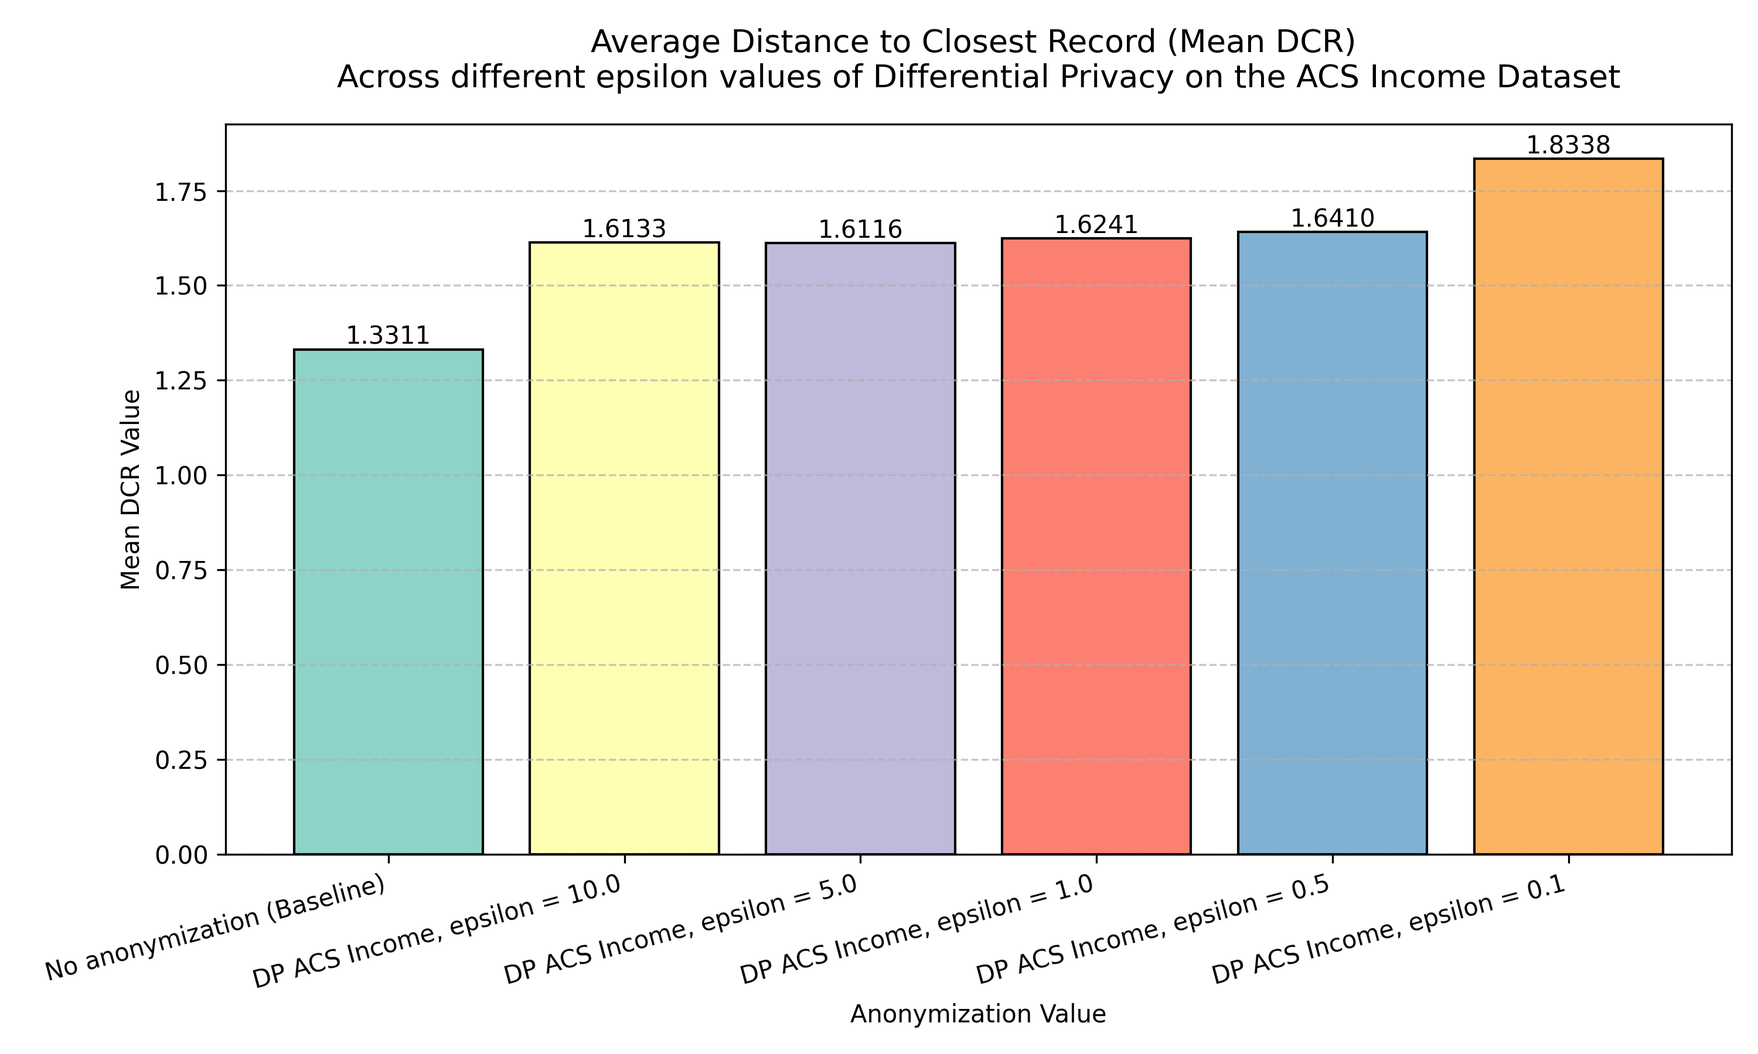
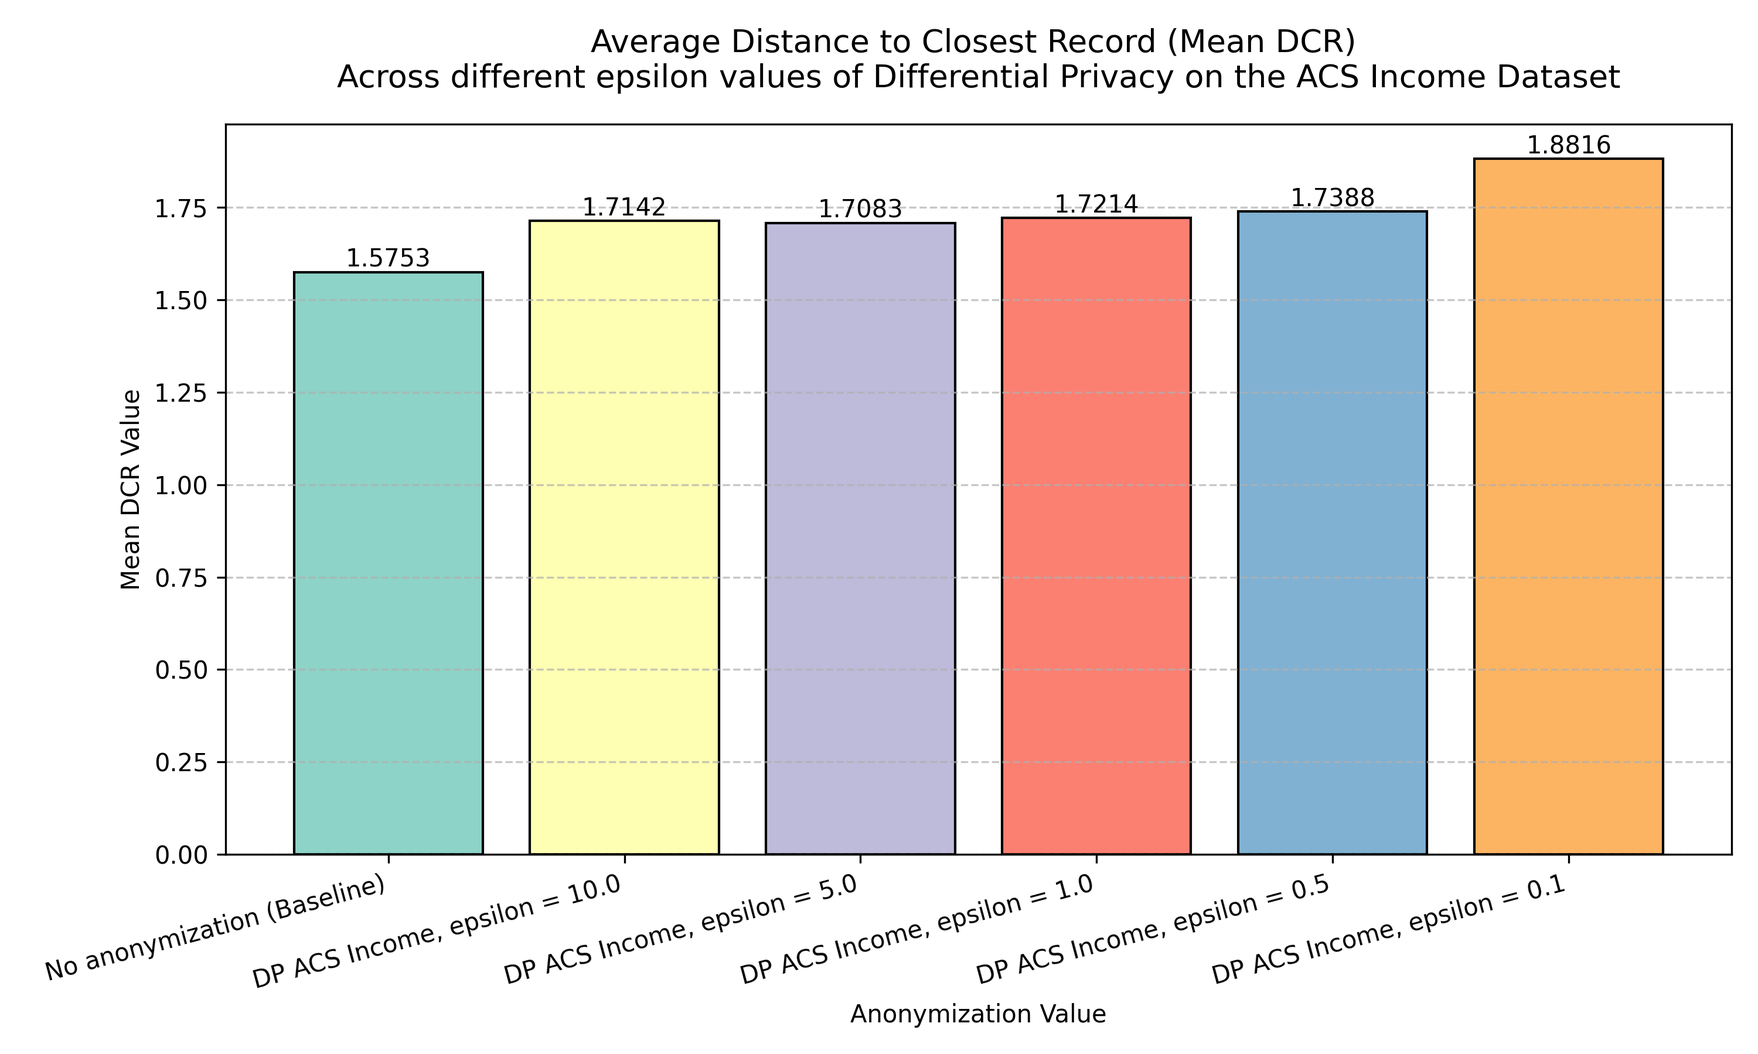
Added DCR, and results

diff --git a/project/ACS Public Coverage/risk_assessment/DCR.py b/project/ACS Public Coverage/risk_assessment/DCR.py
@@ -45,7 +45,7 @@ def dcr(df_orig_raw, df_anon_raw, numeric_cols):
 
     # 4. Use kNN to efficiently find the shortest distance (DCR)
     # DCR uses euclidan distance
-    knn = NearestNeighbors(n_neighbors=1, algorithm='auto', metric='euclidean')
+    knn = NearestNeighbors(n_neighbors=1, algorithm='auto', metric='euclidean', n_jobs=-1)
     knn.fit(X_orig)
     
     # distances will be an array with the shortest distance for each evaluated row
@@ -73,14 +73,14 @@ def plot_results(results_dict):
     plt.xlabel('Anonymization Value', fontsize=10)
 
     # plt.title('Average Distance to Closest Record (Mean DCR) \nAcross different epsilon values of Differential Privacy on the ACS Public Coverage Dataset', fontsize=13, pad=15)
-    plt.title('Average Distance to Closest Record (Mean DCR) \nAcross different k-values of k-Anonymity on the ACS Public Coverage Dataset', fontsize=10)
-    # plt.title('Average Distance to Closest Record (Mean DCR) \nAcross different k-, l- and t-values of k-Anonymity, l-Diversity and t-Closeness on the ACS Public Coverage Dataset', fontsize=10)
+    # plt.title('Average Distance to Closest Record (Mean DCR) \nAcross different k-values of k-Anonymity on the ACS Public Coverage Dataset', fontsize=10)
+    plt.title('Average Distance to Closest Record (Mean DCR) \nAcross different k-, l- and t-values of k-Anonymity, l-Diversity and t-Closeness on the ACS Public Coverage Dataset', fontsize=10)
     plt.grid(axis='y', linestyle='--', alpha=0.7, zorder=0)
     # plt.ylim(0, 1)
     plt.tight_layout()
     # plt.savefig("../plots/dcr_mean_distance_acs_public_coverage_DP.png", dpi=300)
-    plt.savefig("../plots/dcr_mean_distance_acs_public_coverage_ARX_k_only.png", dpi=300)
-    # plt.savefig("../plots/dcr_mean_distance_acs_public_coverage_ARX_k_l_t.png", dpi=300)
+    # plt.savefig("../plots/dcr_mean_distance_acs_public_coverage_ARX_k_only.png", dpi=300)
+    plt.savefig("../plots/dcr_mean_distance_acs_public_coverage_ARX_k_l_t.png", dpi=300)
     plt.show()
 
 df_real = pd.read_csv('../datasets/folktables_public_coverage_RAW.csv')
@@ -90,18 +90,18 @@ df_train_real, df_test_real = train_test_split(df_real, test_size=0.3, random_st
 datasets_to_test = {
     "No anonymization (Baseline)": df_test_real,  # signals: use X_train_real directly
     # "ARX ACS Public Coverage, k = 10": pd.read_csv('../datasets/ARX_public_coverage_k=10.csv'),
-    # "ARX ACS Public Coverage, k = 10, l = 2": pd.read_csv('../datasets/ARX_public_coverage_k=10_l=2.csv'),
-    # "ARX ACS Public Coverage, k = 10, l = 3": pd.read_csv('../datasets/ARX_public_coverage_k=10_l=3.csv'),
-    # "ARX ACS Public Coverage, k = 10, t = 0.7": pd.read_csv('../datasets/ARX_public_coverage_k=10_t=0.7.csv'),
-    # "ARX ACS Public Coverage, k = 10, t = 0.6": pd.read_csv('../datasets/ARX_public_coverage_k=10_t=0.6.csv'),
     "ARX ACS Public Coverage k = 10": pd.read_csv('../datasets/ARX_public_coverage_k=10.csv'),
     "ARX ACS Public Coverage k = 20": pd.read_csv('../datasets/ARX_public_coverage_k=20.csv'),
     "ARX ACS Public Coverage k = 50": pd.read_csv('../datasets/ARX_public_coverage_k=50.csv'),
-    # "DP ACS Public Coverage, epsilon = 10.0": pd.read_csv('../datasets/public_coverage_dp_epsilon_10_0.csv'),
-    # "DP ACS Public Coverage, epsilon = 5.0":  pd.read_csv('../datasets/public_coverage_dp_epsilon_5_0.csv'),
-    # "DP ACS Public Coverage, epsilon = 1.0":  pd.read_csv('../datasets/public_coverage_dp_epsilon_1_0.csv'),
-    # "DP ACS Public Coverage, epsilon = 0.5":  pd.read_csv('../datasets/public_coverage_dp_epsilon_0_5.csv'),
-    # "DP ACS Public Coverage, epsilon = 0.1":  pd.read_csv('../datasets/public_coverage_dp_epsilon_0_1.csv'),
+    "ARX ACS Public Coverage, k = 10, l = 2": pd.read_csv('../datasets/ARX_public_coverage_k=10_l=2.csv'),
+    "ARX ACS Public Coverage, k = 10, l = 3": pd.read_csv('../datasets/ARX_public_coverage_k=10_l=3.csv'),
+    "ARX ACS Public Coverage, k = 10, t = 0.7": pd.read_csv('../datasets/ARX_public_coverage_k=10_t=0.7.csv'),
+    "ARX ACS Public Coverage, k = 10, t = 0.6": pd.read_csv('../datasets/ARX_public_coverage_k=10_t=0.6.csv'),
+    "DP ACS Public Coverage, epsilon = 10.0": pd.read_csv('../datasets/public_coverage_dp_epsilon_10_0.csv'),
+    "DP ACS Public Coverage, epsilon = 5.0":  pd.read_csv('../datasets/public_coverage_dp_epsilon_5_0.csv'),
+    "DP ACS Public Coverage, epsilon = 1.0":  pd.read_csv('../datasets/public_coverage_dp_epsilon_1_0.csv'),
+    "DP ACS Public Coverage, epsilon = 0.5":  pd.read_csv('../datasets/public_coverage_dp_epsilon_0_5.csv'),
+    "DP ACS Public Coverage, epsilon = 0.1":  pd.read_csv('../datasets/public_coverage_dp_epsilon_0_1.csv'),
 }
 
 results = {}
@@ -114,4 +114,14 @@ for name, df in datasets_to_test.items():
     print(f"Exact Matches (%): {results[name]['exact_matches_%']:.2f}%")
     print(f"Near Matches <1% DCR (%): {results[name]['near_matches_1pct_%']:.2f}%")
 
-plot_results({k: v['mean_distance'] for k, v in results.items()})
+df_results = pd.DataFrame.from_dict(results, orient='index')
+
+# 2. Döp om index-kolumnen så det ser snyggt ut i CSV:n
+df_results.index.name = 'Anonymization_Configuration'
+
+# 3. Definiera var du vill spara filen (skapa en mapp som heter "results" om du inte har det)
+csv_filepath = "../plots/dcr_results_acs_public_coverage.csv" 
+
+# 4. Spara till CSV
+df_results.to_csv(csv_filepath)
+# plot_results({k: v['mean_distance'] for k, v in results.items()})

diff --git a/project/ACS Income/risk_assessment/DCR.py b/project/ACS Income/risk_assessment/DCR.py
@@ -49,7 +49,7 @@ def dcr(df_orig_raw, df_anon_raw, numeric_cols):
 
     # 4. Use kNN to efficiently find the shortest distance (DCR)
     # DCR uses euclidan distance
-    knn = NearestNeighbors(n_neighbors=1, algorithm='auto', metric='euclidean')
+    knn = NearestNeighbors(n_neighbors=1, algorithm='auto', metric='euclidean', n_jobs=-1)
     knn.fit(X_orig)
     
     # distances will be an array with the shortest distance for each evaluated row
@@ -77,7 +77,7 @@ def plot_results(results_dict):
     plt.xlabel('Anonymization Value', fontsize=10)
 
     # plt.title('Average Distance to Closest Record (Mean DCR) \nAcross different epsilon values of Differential Privacy on the ACS Income Dataset', fontsize=13, pad=15)
-    plt.title('Average Distance to Closest Record (Mean DCR) \nAcross different k-values of k-Anonymity on the ACS Income Dataset', fontsize=10)
+    plt.title('Average Distance to Closest Record (Mean DCR) \nAcross different k-valuses of k-Anonymity on the ACS Income Dataset', fontsize=10)
     # plt.title('Average Distance to Closest Record (Mean DCR) \nAcross different k-, l- and t-values of k-Anonymity, l-Diversity and t-Closeness on the ACS Income Dataset', fontsize=10)
     plt.grid(axis='y', linestyle='--', alpha=0.7, zorder=0)
     # plt.ylim(0, 1)
@@ -93,19 +93,19 @@ df_train_real, df_test_real = train_test_split(df_real, test_size=0.3, random_st
 
 datasets_to_test = {
     "No anonymization (Baseline)": df_test_real,  # signals: use X_train_real directly
-    # "ARX ACS Income k = 10": pd.read_csv('../datasets/ARX_income_k=10_l=2.csv'),
-    # "ARX ACS Income k = 10, l = 2": pd.read_csv('../datasets/ARX_income_k=10_l=2.csv'),
-    # "ARX ACS Income k = 10, t = 0.2": pd.read_csv('../datasets/ARX_income_k=10_t=0.2.csv'),
-    # "ARX ACS Income k = 10, t = 0.10": pd.read_csv('../datasets/ARX_income_k=10_t=0.1.csv'),
-    # "ARX ACS Income k = 10, t = 0.05": pd.read_csv('../datasets/ARX_income_k=10_t=0.05.csv'),
     "ARX ACS Income k = 10": pd.read_csv('../datasets/ARX_income_k=10.csv'),
     "ARX ACS Income k = 20": pd.read_csv('../datasets/ARX_income_k=20.csv'),
     "ARX ACS Income k = 50": pd.read_csv('../datasets/ARX_income_k=50.csv'),
-    # "DP ACS Income, epsilon = 10.0": pd.read_csv('../datasets/income_dp_epsilon_10_0.csv'),
-    # "DP ACS Income, epsilon = 5.0":  pd.read_csv('../datasets/income_dp_epsilon_5_0.csv'),
-    # "DP ACS Income, epsilon = 1.0":  pd.read_csv('../datasets/income_dp_epsilon_1_0.csv'),
-    # "DP ACS Income, epsilon = 0.5":  pd.read_csv('../datasets/income_dp_epsilon_0_5.csv'),
-    # "DP ACS Income, epsilon = 0.1":  pd.read_csv('../datasets/income_dp_epsilon_0_1.csv'),
+    # "ARX ACS Income k = 10": pd.read_csv('../datasets/ARX_income_k=10.csv'),
+    "ARX ACS Income k = 10, l = 2": pd.read_csv('../datasets/ARX_income_k=10_l=2.csv'),
+    "ARX ACS Income k = 10, t = 0.2": pd.read_csv('../datasets/ARX_income_k=10_t=0.2.csv'),
+    "ARX ACS Income k = 10, t = 0.10": pd.read_csv('../datasets/ARX_income_k=10_t=0.1.csv'),
+    "ARX ACS Income k = 10, t = 0.05": pd.read_csv('../datasets/ARX_income_k=10_t=0.05.csv'),
+    "DP ACS Income, epsilon = 10.0": pd.read_csv('../datasets/income_dp_epsilon_10_0.csv'),
+    "DP ACS Income, epsilon = 5.0":  pd.read_csv('../datasets/income_dp_epsilon_5_0.csv'),
+    "DP ACS Income, epsilon = 1.0":  pd.read_csv('../datasets/income_dp_epsilon_1_0.csv'),
+    "DP ACS Income, epsilon = 0.5":  pd.read_csv('../datasets/income_dp_epsilon_0_5.csv'),
+    "DP ACS Income, epsilon = 0.1":  pd.read_csv('../datasets/income_dp_epsilon_0_1.csv'),
 }
 
 results = {}
@@ -117,5 +117,14 @@ for name, df in datasets_to_test.items():
     print(f"Median DCR: {results[name]['median_distance']:.4f}")
     print(f"Exact Matches (%): {results[name]['exact_matches_%']:.2f}%")
     print(f"Near Matches <1% DCR (%): {results[name]['near_matches_1pct_%']:.2f}%")
+df_results = pd.DataFrame.from_dict(results, orient='index')
 
-plot_results({k: v['mean_distance'] for k, v in results.items()})
+# 2. Döp om index-kolumnen så det ser snyggt ut i CSV:n
+df_results.index.name = 'Anonymization_Configuration'
+
+# 3. Definiera var du vill spara filen (skapa en mapp som heter "results" om du inte har det)
+csv_filepath = "../plots/dcr_results_acs_income.csv" 
+
+# 4. Spara till CSV
+df_results.to_csv(csv_filepath)
+# plot_results({k: v['mean_distance'] for k, v in results.items()})

diff --git a/project/Credit Card Clients/risk_assessment/DCR.py b/project/Credit Card Clients/risk_assessment/DCR.py
@@ -91,18 +91,18 @@ df_train_real, df_test_real = train_test_split(df_real, test_size=0.3, random_st
 datasets_to_test = {
     "No anonymization (Baseline)": df_test_real,  # signals: use X_train_real directly
     # "ARX Credit Card Clients, k = 5": pd.read_csv('../datasets/ARX_credit_card_clients_k=5.csv'),
-    # "ARX Credit Card Clients, k = 5, l = 2": pd.read_csv('../datasets/ARX_credit_card_clients_k=5_l=2.csv'),
-    # "ARX Credit Card Clients, k = 5, l = 3": pd.read_csv('../datasets/ARX_credit_card_clients_k=5_l=3.csv'),
-    # "ARX Credit Card Clients, k = 5, t = 0.20": pd.read_csv('../datasets/ARX_credit_card_clients_k=5_t=0.2.csv'),
-    # "ARX Credit Card Clients, k = 5, t = 0.10": pd.read_csv('../datasets/ARX_credit_card_clients_k=5_t=0.1.csv'),
-    "ARX Credit Card Clients k = 5": pd.read_csv('../datasets/ARX_credit_card_clients_k=5.csv'),
     "ARX Credit Card Clients k = 10": pd.read_csv('../datasets/ARX_credit_card_clients_k=10.csv'),
     "ARX Credit Card Clients k = 20": pd.read_csv('../datasets/ARX_credit_card_clients_k=20.csv'),
-    # "DP Credit Card Clients, epsilon = 10.0": pd.read_csv('../datasets/credit_card_clients_dp_epsilon_10_0.csv'),
-    # "DP Credit Card Clients, epsilon = 5.0":  pd.read_csv('../datasets/credit_card_clients_dp_epsilon_5_0.csv'),
-    # "DP Credit Card Clients, epsilon = 3.0":  pd.read_csv('../datasets/credit_card_clients_dp_epsilon_3_0.csv'),
-    # "DP Credit Card Clients, epsilon = 1.0":  pd.read_csv('../datasets/credit_card_clients_dp_epsilon_1_0.csv'),
-    # "DP Credit Card Clients, epsilon = 0.5":  pd.read_csv('../datasets/credit_card_clients_dp_epsilon_0_5.csv'),
+    "ARX Credit Card Clients, k = 5, l = 2": pd.read_csv('../datasets/ARX_credit_card_clients_k=5_l=2.csv'),
+    "ARX Credit Card Clients, k = 5, l = 3": pd.read_csv('../datasets/ARX_credit_card_clients_k=5_l=3.csv'),
+    "ARX Credit Card Clients, k = 5, t = 0.20": pd.read_csv('../datasets/ARX_credit_card_clients_k=5_t=0.2.csv'),
+    "ARX Credit Card Clients, k = 5, t = 0.10": pd.read_csv('../datasets/ARX_credit_card_clients_k=5_t=0.1.csv'),
+    # "ARX Credit Card Clients k = 5": pd.read_csv('../datasets/ARX_credit_card_clients_k=5.csv'),
+    "DP Credit Card Clients, epsilon = 10.0": pd.read_csv('../datasets/credit_card_clients_dp_epsilon_10_0.csv'),
+    "DP Credit Card Clients, epsilon = 5.0":  pd.read_csv('../datasets/credit_card_clients_dp_epsilon_5_0.csv'),
+    "DP Credit Card Clients, epsilon = 3.0":  pd.read_csv('../datasets/credit_card_clients_dp_epsilon_3_0.csv'),
+    "DP Credit Card Clients, epsilon = 1.0":  pd.read_csv('../datasets/credit_card_clients_dp_epsilon_1_0.csv'),
+    "DP Credit Card Clients, epsilon = 0.5":  pd.read_csv('../datasets/credit_card_clients_dp_epsilon_0_5.csv'),
 }
 
 results = {}
@@ -115,4 +115,14 @@ for name, df in datasets_to_test.items():
     print(f"Exact Matches (%): {results[name]['exact_matches_%']:.2f}%")
     print(f"Near Matches <1% DCR (%): {results[name]['near_matches_1pct_%']:.2f}%")
 
-plot_results({k: v['mean_distance'] for k, v in results.items()})
+df_results = pd.DataFrame.from_dict(results, orient='index')
+
+# 2. Döp om index-kolumnen så det ser snyggt ut i CSV:n
+df_results.index.name = 'Anonymization_Configuration'
+
+# 3. Definiera var du vill spara filen (skapa en mapp som heter "results" om du inte har det)
+csv_filepath = "../plots/dcr_results_credit_card_clients.csv" 
+
+# 4. Spara till CSV
+df_results.to_csv(csv_filepath)
+# plot_results({k: v['mean_distance'] for k, v in results.items()})

diff --git a/project/Bank Marketing/risk_assessment/DCR.py b/project/Bank Marketing/risk_assessment/DCR.py
@@ -89,19 +89,19 @@ df_train_real, df_test_real = train_test_split(df_real, test_size=0.3, random_st
 
 datasets_to_test = {
     "No anonymization (Baseline)": df_test_real,  # signals: use X_train_real directly
-    # "ARX Bank_marketing k = 5": pd.read_csv('../datasets/ARX_bank_marketing_k=5.csv', sep=';'),
-    # "ARX Bank_marketing k = 5, l = 2": pd.read_csv('../datasets/ARX_bank_marketing_k=5_l=2.csv', sep=';'),
-    # "ARX Bank_marketing k = 5, l = 3": pd.read_csv('../datasets/ARX_bank_marketing_k=5_l=3.csv', sep=';'),
-    # "ARX Bank_marketing k = 5, t = 0.2": pd.read_csv('../datasets/ARX_bank_marketing_k=5_t=0.2.csv', sep=';'),
-    # "ARX Bank_marketing k = 5, t = 0.1": pd.read_csv('../datasets/ARX_bank_marketing_k=5_t=0.1.csv', sep=';'),
     "ARX Bank_marketing k = 5": pd.read_csv('../datasets/ARX_bank_marketing_k=5.csv', sep=';'),
     "ARX Bank Marketing k = 10": pd.read_csv('../datasets/ARX_bank_marketing_k=10.csv', sep=';'),
     "ARX Bank Marketing k = 20": pd.read_csv('../datasets/ARX_bank_marketing_k=20.csv', sep=';'),
-    # "DP Bank Marketing, epsilon = 10.0": pd.read_csv('../datasets/bank_marketing_dp_epsilon_10_0.csv'),
-    # "DP Bank Marketing, epsilon = 5.0":  pd.read_csv('../datasets/bank_marketing_dp_epsilon_5_0.csv'),
-    # "DP Bank Marketing, epsilon = 1.0":  pd.read_csv('../datasets/bank_marketing_dp_epsilon_1_0.csv'),
-    # "DP Bank Marketing, epsilon = 0.5":  pd.read_csv('../datasets/bank_marketing_dp_epsilon_0_5.csv'),
-    # "DP Bank Marketing, epsilon = 0.1":  pd.read_csv('../datasets/bank_marketing_dp_epsilon_0_1.csv'),
+    "ARX Bank_marketing k = 5, l = 2": pd.read_csv('../datasets/ARX_bank_marketing_k=5_l=2.csv', sep=';'),
+    "ARX Bank_marketing k = 5, l = 3": pd.read_csv('../datasets/ARX_bank_marketing_k=5_l=3.csv', sep=';'),
+    "ARX Bank_marketing k = 5, t = 0.2": pd.read_csv('../datasets/ARX_bank_marketing_k=5_t=0.2.csv', sep=';'),
+    "ARX Bank_marketing k = 5, t = 0.1": pd.read_csv('../datasets/ARX_bank_marketing_k=5_t=0.1.csv', sep=';'),
+    # "ARX Bank_marketing k = 5": pd.read_csv('../datasets/ARX_bank_marketing_k=5.csv', sep=';'),
+    "DP Bank Marketing, epsilon = 10.0": pd.read_csv('../datasets/bank_marketing_dp_epsilon_10_0.csv'),
+    "DP Bank Marketing, epsilon = 5.0":  pd.read_csv('../datasets/bank_marketing_dp_epsilon_5_0.csv'),
+    "DP Bank Marketing, epsilon = 1.0":  pd.read_csv('../datasets/bank_marketing_dp_epsilon_1_0.csv'),
+    "DP Bank Marketing, epsilon = 0.5":  pd.read_csv('../datasets/bank_marketing_dp_epsilon_0_5.csv'),
+    "DP Bank Marketing, epsilon = 0.1":  pd.read_csv('../datasets/bank_marketing_dp_epsilon_0_1.csv'),
 }
 
 results = {}
@@ -114,4 +114,14 @@ for name, df in datasets_to_test.items():
     print(f"Exact Matches (%): {results[name]['exact_matches_%']:.2f}%")
     print(f"Near Matches <1% DCR (%): {results[name]['near_matches_1pct_%']:.2f}%")
 
-plot_results({k: v['mean_distance'] for k, v in results.items()})
+df_results = pd.DataFrame.from_dict(results, orient='index')
+
+# 2. Döp om index-kolumnen så det ser snyggt ut i CSV:n
+df_results.index.name = 'Anonymization_Configuration'
+
+# 3. Definiera var du vill spara filen (skapa en mapp som heter "results" om du inte har det)
+csv_filepath = "../plots/dcr_results_bank_marketing.csv" 
+
+# 4. Spara till CSV
+df_results.to_csv(csv_filepath)
+# plot_results({k: v['mean_distance'] for k, v in results.items()})

diff --git a/project/ACS Employement/risk_assessment/DCR.py b/project/ACS Employement/risk_assessment/DCR.py
@@ -94,18 +94,18 @@ df_train_real, df_test_real = train_test_split(df_real, test_size=0.3, random_st
 datasets_to_test = {
     "No anonymization (Baseline)": df_test_real,  # signals: use X_train_real directly
     "ARX ACS Employment k = 10": pd.read_csv('../datasets/ARX_employment_k=10.csv'),
+    "ARX ACS Employment k = 20": pd.read_csv('../datasets/ARX_employment_k=20.csv'),
+    "ARX ACS Employment k = 50": pd.read_csv('../datasets/ARX_employment_k=50.csv'),
     "ARX ACS Employment k = 10, l = 2": pd.read_csv('../datasets/ARX_employment_k=10_l=2.csv'),
     "ARX ACS Employment k = 10, t = 0.45": pd.read_csv('../datasets/ARX_employment_k=10_t=0.45.csv'),
     "ARX ACS Employment k = 10, t = 0.3": pd.read_csv('../datasets/ARX_employment_k=10_t=0.3.csv'),
     "ARX ACS Employment k = 10, t = 0.2": pd.read_csv('../datasets/ARX_employment_k=10_t=0.2.csv'),
     # "ARX ACS Employment k = 10": pd.read_csv('../datasets/ARX_employment_k=10.csv'),
-    # "ARX ACS Employment k = 20": pd.read_csv('../datasets/ARX_employment_k=20.csv'),
-    # "ARX ACS Employment k = 50": pd.read_csv('../datasets/ARX_employment_k=50.csv'),
-    # "DP ACS Employment, epsilon = 10.0": pd.read_csv('../datasets/employment_dp_epsilon_10_0.csv'),
-    # "DP ACS Employment, epsilon = 5.0":  pd.read_csv('../datasets/employment_dp_epsilon_5_0.csv'),
-    # "DP ACS Employment, epsilon = 1.0":  pd.read_csv('../datasets/employment_dp_epsilon_1_0.csv'),
-    # "DP ACS Employment, epsilon = 0.5":  pd.read_csv('../datasets/employment_dp_epsilon_0_5.csv'),
-    # "DP ACS Employment, epsilon = 0.1":  pd.read_csv('../datasets/employment_dp_epsilon_0_1.csv'),
+    "DP ACS Employment, epsilon = 10.0": pd.read_csv('../datasets/employment_dp_epsilon_10_0.csv'),
+    "DP ACS Employment, epsilon = 5.0":  pd.read_csv('../datasets/employment_dp_epsilon_5_0.csv'),
+    "DP ACS Employment, epsilon = 1.0":  pd.read_csv('../datasets/employment_dp_epsilon_1_0.csv'),
+    "DP ACS Employment, epsilon = 0.5":  pd.read_csv('../datasets/employment_dp_epsilon_0_5.csv'),
+    "DP ACS Employment, epsilon = 0.1":  pd.read_csv('../datasets/employment_dp_epsilon_0_1.csv'),
 }
 
 results = {}
@@ -117,5 +117,14 @@ for name, df in datasets_to_test.items():
     print(f"Median DCR: {results[name]['median_distance']:.4f}")
     print(f"Exact Matches (%): {results[name]['exact_matches_%']:.2f}%")
     print(f"Near Matches <1% DCR (%): {results[name]['near_matches_1pct_%']:.2f}%")
+df_results = pd.DataFrame.from_dict(results, orient='index')
 
-plot_results({k: v['mean_distance'] for k, v in results.items()})
+# 2. Döp om index-kolumnen så det ser snyggt ut i CSV:n
+df_results.index.name = 'Anonymization_Configuration'
+
+# 3. Definiera var du vill spara filen (skapa en mapp som heter "results" om du inte har det)
+csv_filepath = "../plots/dcr_results_acs_employment.csv" 
+
+# 4. Spara till CSV
+df_results.to_csv(csv_filepath)
+# plot_results({k: v['mean_distance'] for k, v in results.items()})

diff --git a/project/MEPS/risk_assessment/DCR.py b/project/MEPS/risk_assessment/DCR.py
@@ -88,14 +88,14 @@ df_real = pd.read_csv('../datasets/MEPS.csv')
 df_train_real, df_test_real = train_test_split(df_real, test_size=0.3, random_state=RANDOM_STATE)
 datasets_to_test = {
     "No anonymization (Baseline)": df_test_real,  # attacker has real data — upper bound
+    "ARX MEPS k = 5": pd.read_csv('../datasets/ARX_meps_k=5.csv'),
+    "ARX MEPS k = 10": pd.read_csv('../datasets/ARX_meps_k=10.csv'),
+    "ARX MEPS k = 20": pd.read_csv('../datasets/ARX_meps_k=20.csv'),
     # "ARX MEPS, k = 5": pd.read_csv('../datasets/ARX_meps_k=5.csv'),
-    # "ARX MEPS, k = 5, l = 2": pd.read_csv('../datasets/ARX_meps_k=5_l=2.csv'),
-    # "ARX MEPS, k = 5, l = 3": pd.read_csv('../datasets/ARX_meps_k=5_l=3.csv'),
-    # "ARX MEPS, k = 5, t = 0.2": pd.read_csv('../datasets/ARX_meps_k=5_t=0.2.csv'),
-    # "ARX MEPS, k = 5, t = 0.1": pd.read_csv('../datasets/ARX_meps_k=5_t=0.1.csv'),
-    # "ARX MEPS k = 5": pd.read_csv('../datasets/ARX_meps_k=5.csv'),
-    # "ARX MEPS k = 10": pd.read_csv('../datasets/ARX_meps_k=10.csv'),
-    # "ARX MEPS k = 20": pd.read_csv('../datasets/ARX_meps_k=20.csv'),
+    "ARX MEPS, k = 5, l = 2": pd.read_csv('../datasets/ARX_meps_k=5_l=2.csv'),
+    "ARX MEPS, k = 5, l = 3": pd.read_csv('../datasets/ARX_meps_k=5_l=3.csv'),
+    "ARX MEPS, k = 5, t = 0.2": pd.read_csv('../datasets/ARX_meps_k=5_t=0.2.csv'),
+    "ARX MEPS, k = 5, t = 0.1": pd.read_csv('../datasets/ARX_meps_k=5_t=0.1.csv'),
     "DP MEPS, epsilon = 10.0": pd.read_csv('../datasets/meps_dp_epsilon_10_0.csv'),
     "DP MEPS, epsilon = 5.0":  pd.read_csv('../datasets/meps_dp_epsilon_5_0.csv'),
     "DP MEPS, epsilon = 3.0":  pd.read_csv('../datasets/meps_dp_epsilon_3_0.csv'),
@@ -114,4 +114,14 @@ for name, df in datasets_to_test.items():
     print(f"Near Matches <1% DCR (%): {results[name]['near_matches_1pct_%']:.2f}%")
 
 # plot_DP_mean_dcr({k: v['mean_distance'] for k, v in results.items()})
-plot_results({k: v['mean_distance'] for k, v in results.items()})
+df_results = pd.DataFrame.from_dict(results, orient='index')
+
+# 2. Döp om index-kolumnen så det ser snyggt ut i CSV:n
+df_results.index.name = 'Anonymization_Configuration'
+
+# 3. Definiera var du vill spara filen (skapa en mapp som heter "results" om du inte har det)
+csv_filepath = "../plots/dcr_results_meps.csv" 
+
+# 4. Spara till CSV
+df_results.to_csv(csv_filepath)
+# plot_results({k: v['mean_distance'] for k, v in results.items()})

diff --git a/project/ACS Income/anonymization/income_dp.py b/project/ACS Income/anonymization/income_dp.py
@@ -56,7 +56,7 @@ for epsilon in epsilons:
 
     synth.fit(
         df_original,
-        categorical_columns=categorical_cols, # <-- DU MISSADE DENNA RAD
+        categorical_columns=categorical_cols, 
         continuous_columns=continuous_cols,
         preprocessor_eps=epsilon * 0.1
     )
